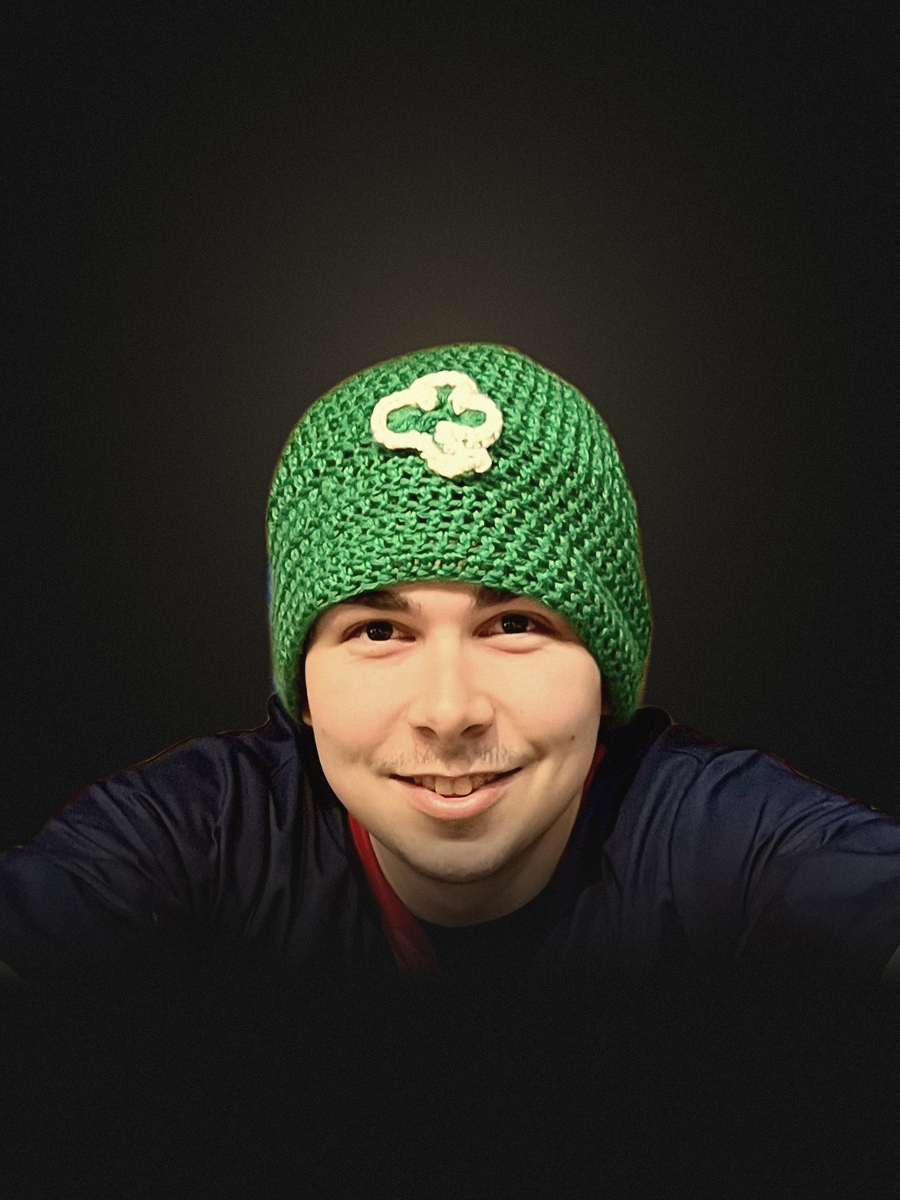
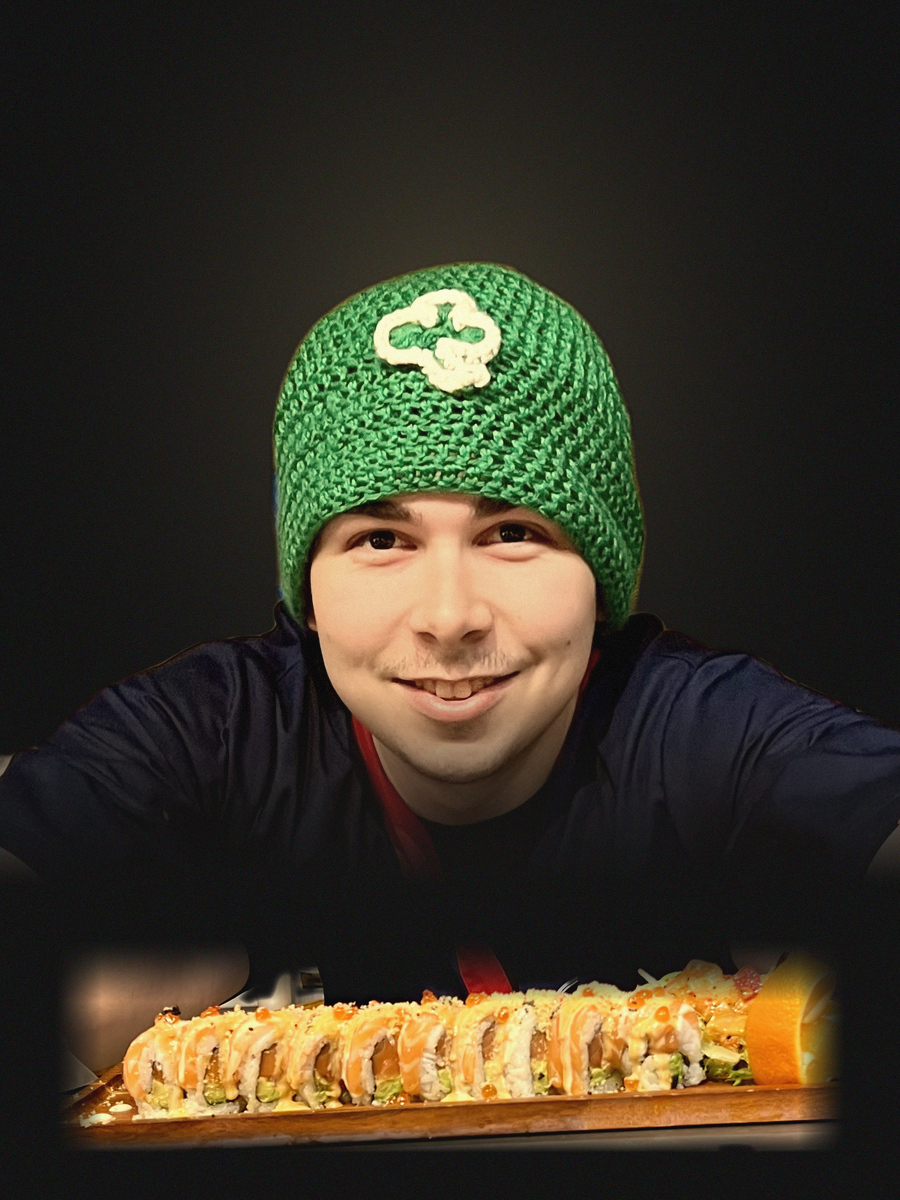
Update chef portrait with sushi roll; remove card box
- Recomposite chef portrait: clean head+shoulders + separately extracted
  sushi roll composited on dark themed background
- Remove the grey card box wrapper — image now displays edge-to-edge

diff --git a/app/page.js b/app/page.js
@@ -770,18 +770,11 @@ function AboutChefSection() {
 
             {/* Left — Chef portrait */}
             <div>
-              <div style={{ position: "relative", paddingTop: "133.33%", overflow: "hidden" }}>
-                <img
-                  src="/chef-portrait.jpg"
-                  alt="Mason Steinberg, Founder & Executive Chef"
-                  style={{
-                    position: "absolute", inset: 0,
-                    width: "100%", height: "100%",
-                    objectFit: "cover", objectPosition: "center top",
-                    display: "block",
-                  }}
-                />
-              </div>
+              <img
+                src="/chef-portrait.jpg"
+                alt="Mason Steinberg, Founder & Executive Chef"
+                style={{ width: "100%", display: "block" }}
+              />
             </div>
 
             {/* Right — Text content */}